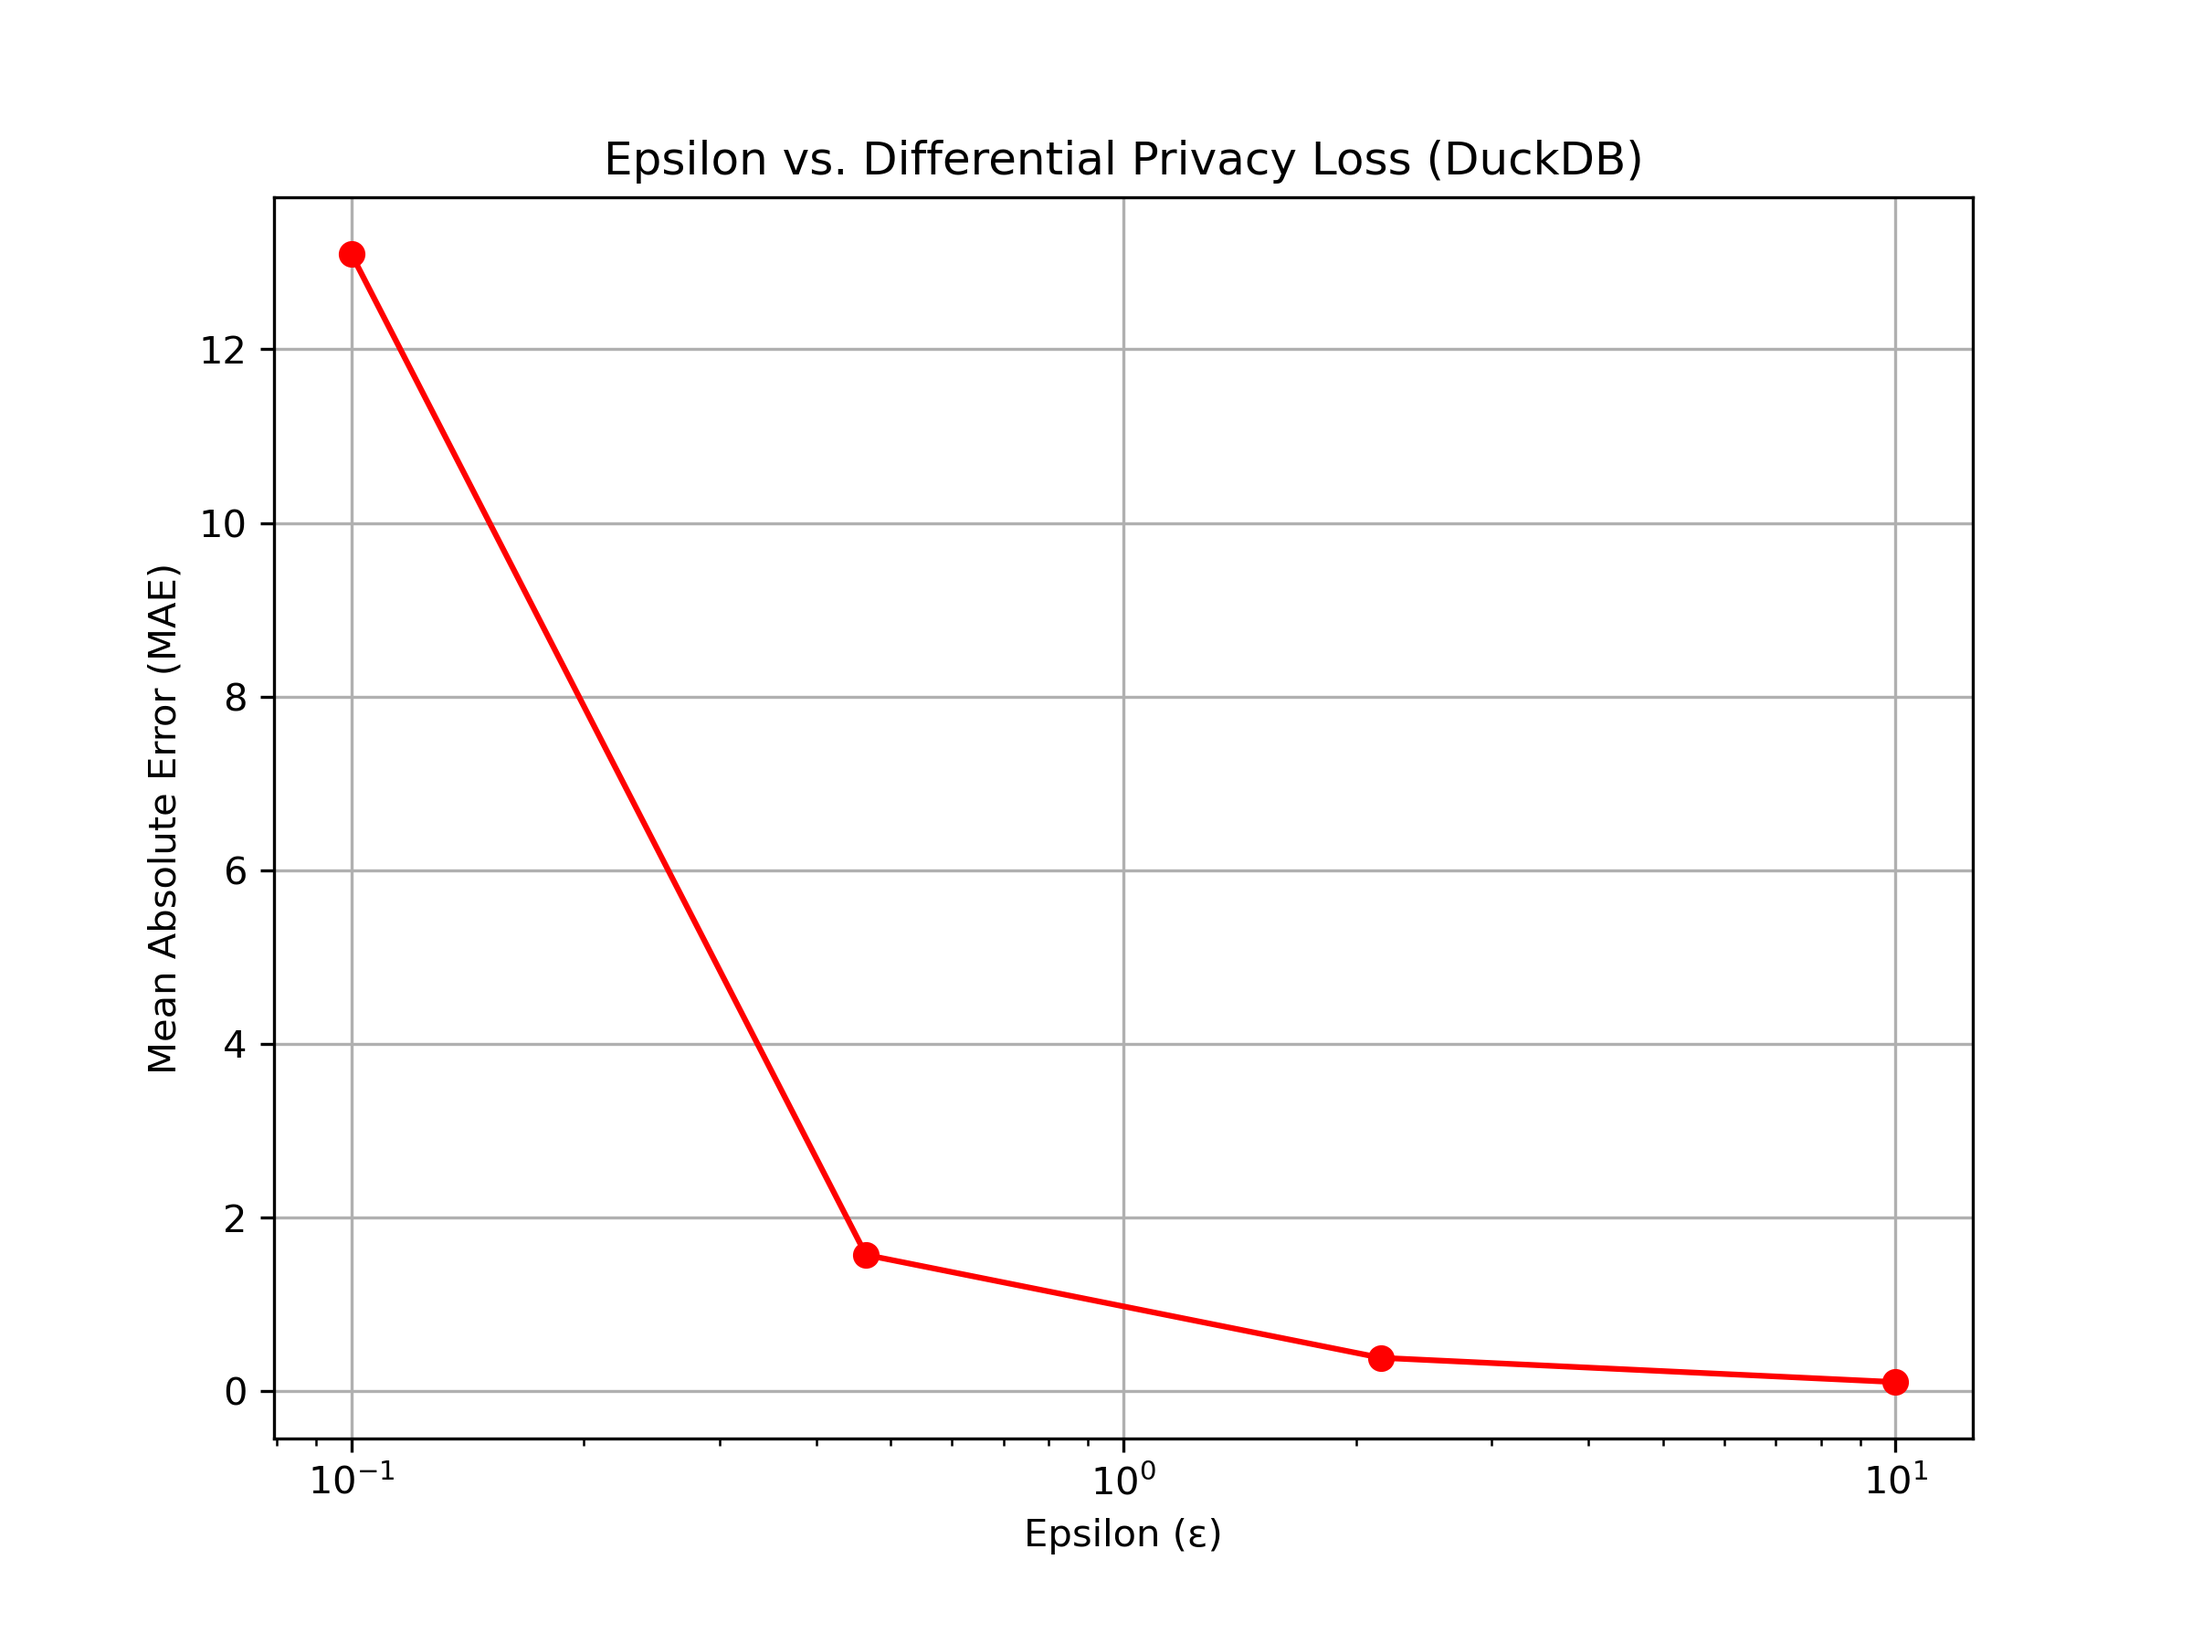
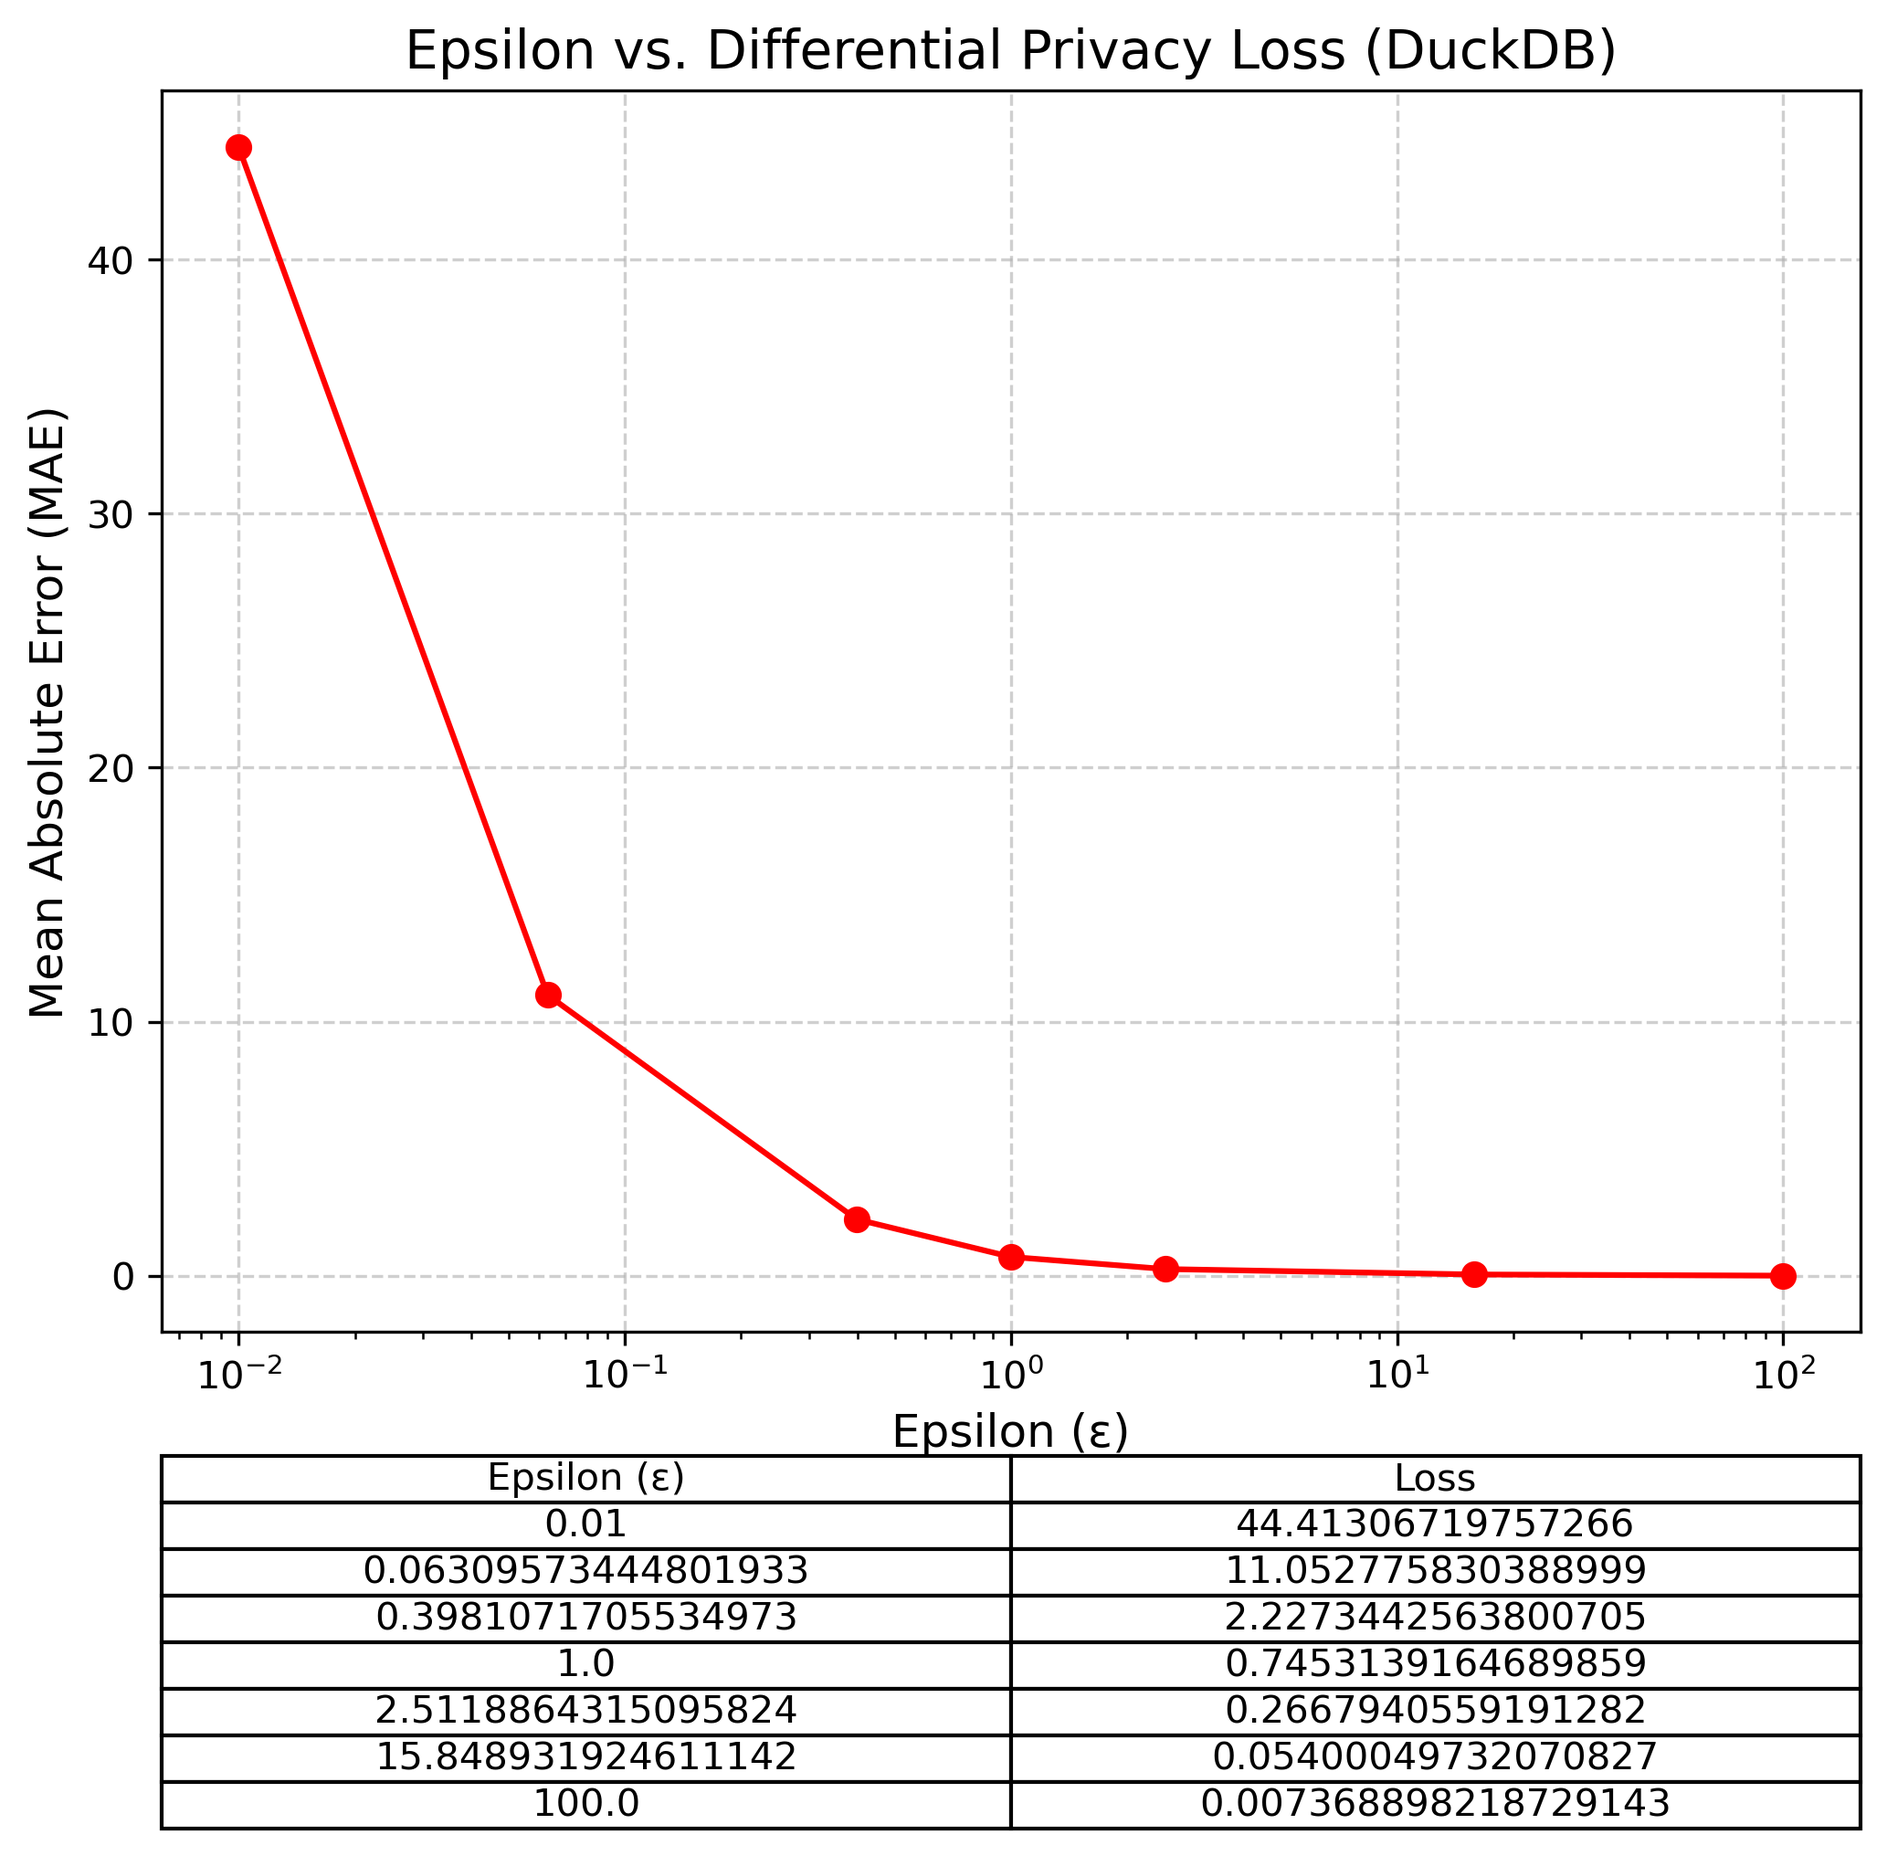
Tyler is cool

diff --git a/src/COND_PROB/src/private.py b/src/COND_PROB/src/private.py
@@ -200,7 +200,7 @@ def plot_histogram(parquet_path_pattern, epsilon, output_dir):
     plt.show()
 
     # Save figure
-    plot_filename = os.path.join(output_dir, "histogram_epsilon.png")
+    plot_filename = os.path.join(output_dir, "epsilon_vs_utility.png")
     plt.savefig(plot_filename, dpi=300, facecolor='white')
     plt.close()
 
@@ -214,7 +214,7 @@ def main():
 
 
     #This does 1 parquet
-    #parquet_path_pattern = "D:/CapstoneTyler/0007_part_00.parquet"
+    parquet_path_pattern = "D:/CapstoneTyler/0007_part_00.parquet"
 
 
     #This does all parquets in my hard drive
@@ -232,7 +232,7 @@ def main():
     try:
 
         #This calcualtes the utilty
-        #print(caluculate_utility(parquet_path_pattern, [0.01,.1,1,10,100]))
+        print(caluculate_utility(parquet_path_pattern, [0.01,.1,1,10,100]))
 
         #This plots the histogram at a certain epsilon
         #plot = plot_histogram(parquet_path_pattern, 1, output_dir=r"D:\CapstoneTyler\visualizations")
